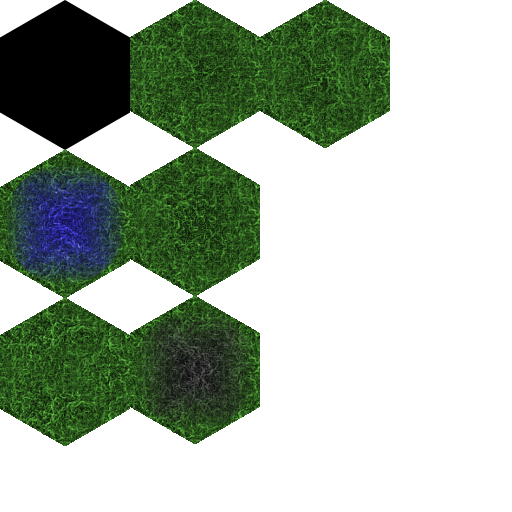
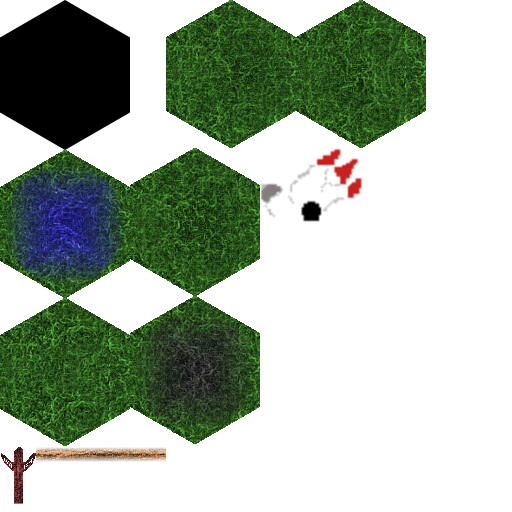
added path finding with a* and assets for the crashed ship and road signs

Changed region(s): [[0.25, 0.0, 0.8438, 0.4375], [0.0, 0.875, 0.3438, 1.0], [0.5, 0.3438, 0.5938, 0.4062]]

diff --git a/lib/src/client/systems/rendering.dart b/lib/src/client/systems/rendering.dart
@@ -14,8 +14,9 @@ class SlimeRenderingSystem extends EntityProcessingSystem {
 
     ctx
       ..save()
-      ..translate(convertX(p.x, p.y) - gsm.cameraX, convertY(p.y) - gsm.cameraY)
+      ..translate(-gsm.cameraX, -gsm.cameraY)
       ..scale(gsm.zoom, gsm.zoom)
+      ..translate(convertX(p.x, p.y), convertY(p.y))
       ..fillStyle = 'blue'
       ..beginPath()
       ..moveTo(0, 0)
@@ -35,8 +36,10 @@ class RoadRenderingSystem extends EntityProcessingSystem {
   Mapper<Road> rm;
 
   CanvasRenderingContext2D ctx;
+  SpriteSheet sheet;
 
-  RoadRenderingSystem(this.ctx) : super(Aspect.getAspectForAllOf([Road]));
+  RoadRenderingSystem(this.ctx, this.sheet)
+      : super(Aspect.getAspectForAllOf([Road]));
 
   @override
   void processEntity(Entity entity) {
@@ -45,18 +48,23 @@ class RoadRenderingSystem extends EntityProcessingSystem {
     final endX = convertX(r.endX, r.endY);
     final startY = convertY(r.startY);
     final endY = convertY(r.endY);
-
+    final road = sheet.sprites['road'];
     ctx
       ..save()
-      ..lineWidth = 3
       ..translate(-gsm.cameraX, -gsm.cameraY)
       ..scale(gsm.zoom, gsm.zoom)
-      ..strokeStyle = 'brown'
-      ..beginPath()
-      ..moveTo(startX, startY)
-      ..lineTo(endX, endY)
-      ..closePath()
-      ..stroke()
+      ..translate(startX, startY)
+      ..rotate(atan2(endY - startY, endX - startX))
+      ..drawImageScaledFromSource(
+          sheet.image,
+          road.src.left,
+          road.src.top,
+          road.src.width,
+          road.src.height,
+          0,
+          -10,
+          road.dst.width,
+          road.dst.height)
       ..restore();
   }
 }
@@ -77,15 +85,15 @@ class MapRenderingSystem extends VoidEntitySystem {
         width: (100 * pixelPerWidth).ceil(),
         height: (100 * pixelPerHeight).ceil());
     bufferCtx = buffer.context2D;
-    final map = mapManager.map;
+    final map = mapManager.map.map;
     for (int y = 0; y < map.length; y++) {
       for (int x = 0; x < map[y].length; x++) {
         Sprite sprite;
-        switch (map[y][x]) {
-          case Tile.carbon:
+        switch (map[y][x].type) {
+          case TileType.carbon:
             sprite = sheet.sprites['carbon'];
             break;
-          case Tile.water:
+          case TileType.water:
             sprite = sheet.sprites['water'];
             break;
           default:
@@ -109,7 +117,75 @@ class MapRenderingSystem extends VoidEntitySystem {
 
   @override
   void processSystem() {
-    ctx.drawImageScaledFromSource(buffer, gsm.cameraX, gsm.cameraY,
-        800 / gsm.zoom, 600 / gsm.zoom, 0, 0, 800, 600);
+    ctx.drawImageScaledFromSource(buffer, gsm.cameraX / gsm.zoom,
+        gsm.cameraY / gsm.zoom, 800 / gsm.zoom, 600 / gsm.zoom, 0, 0, 800, 600);
+  }
+}
+
+class DebugCoordRenderingSystem extends VoidEntitySystem {
+  CanvasRenderingContext2D ctx;
+  MapManager mapManager;
+  GameStateManager gsm;
+  CanvasElement buffer;
+  CanvasRenderingContext2D bufferCtx;
+
+  DebugCoordRenderingSystem(this.ctx);
+
+  @override
+  void initialize() {
+    buffer = new CanvasElement(
+        width: (100 * pixelPerWidth).ceil(),
+        height: (100 * pixelPerHeight).ceil());
+    bufferCtx = buffer.context2D;
+    final map = mapManager.map.map;
+    for (int y = 0; y < map.length; y++) {
+      for (int x = 0; x < map[y].length; x++) {
+        var realX = convertX(x, y);
+        var realY = convertY(y);
+        bufferCtx.fillStyle = 'white';
+        bufferCtx.fillText('$x:$y', realX, realY);
+      }
+    }
+  }
+
+  @override
+  void processSystem() {
+    ctx.drawImageScaledFromSource(buffer, gsm.cameraX / gsm.zoom,
+        gsm.cameraY / gsm.zoom, 800 / gsm.zoom, 600 / gsm.zoom, 0, 0, 800, 600);
+  }
+}
+
+class BuildingRenderingSystem extends EntityProcessingSystem {
+  Mapper<Position> pm;
+  Mapper<Building> bm;
+  GameStateManager gsm;
+
+  CanvasRenderingContext2D ctx;
+  SpriteSheet sheet;
+  BuildingRenderingSystem(this.ctx, this.sheet)
+      : super(Aspect.getAspectForAllOf([Position, Building]));
+
+  @override
+  void processEntity(Entity entity) {
+    final p = pm[entity];
+    final b = bm[entity];
+    final sprite = sheet.sprites[b.id];
+
+    ctx
+      ..save()
+      ..translate(-gsm.cameraX, -gsm.cameraY)
+      ..scale(gsm.zoom, gsm.zoom)
+      ..translate(convertX(p.x, p.y), convertY(p.y))
+      ..drawImageScaledFromSource(
+          sheet.image,
+          sprite.src.left,
+          sprite.src.top,
+          sprite.src.width,
+          sprite.src.height,
+          sprite.dst.left,
+          sprite.dst.top,
+          sprite.dst.width,
+          sprite.dst.height)
+      ..restore();
   }
 }

diff --git a/lib/src/shared/map_manager.dart b/lib/src/shared/map_manager.dart
@@ -1,24 +1,80 @@
 part of shared;
 
-
 class MapManager extends Manager {
-
-  final List<List<Tile>> map = new List.generate(maxY, (_) => new List.generate(maxX, _generateTile));
-
-
-  static Tile _generateTile(_) {
-    final value = random.nextDouble();
-    if (value < 0.05) {
-      return Tile.water;
-    } else if (value < 0.20) {
-      return Tile.carbon;
-    }
-    return Tile.empty;
+  TerrainMap map;
+  AStar<TerrainTile> pathfinder;
+  MapManager() : map = new TerrainMap() {
+    pathfinder = new AStar<TerrainTile>(map);
   }
+
+  TerrainTile getTile(int x, int y) => map.map[y][x];
 }
 
-enum Tile {
-  empty,
-  water,
-  carbon
+enum TileType { empty, water, carbon }
+
+class TerrainTile extends Object with Node {
+  int x, y;
+  TileType type;
+  TerrainTile(this.x, this.y, this.type);
+
+  @override
+  String toString() => '$x:$y - $type';
+}
+
+class TerrainMap implements Graph<TerrainTile> {
+  final List<List<TerrainTile>> map = new List.generate(
+      maxY, (y) => new List.generate(maxX, (x) => _generateTile(x, y)));
+
+  Iterable<TerrainTile> get allNodes => map.expand((rows) => rows).toList();
+  num getDistance(TerrainTile a, TerrainTile b) => 1;
+  num getHeuristicDistance(TerrainTile a, TerrainTile b) => (a.y - b.y).abs() + (a.x - b.x).abs();
+  Iterable<TerrainTile> getNeighboursOf(TerrainTile node) {
+    List<TerrainTile> result = [];
+    final x = node.x;
+    final y = node.y;
+    if (x - 1 >= 0) {
+      result.add(map[y][x - 1]);
+    }
+    if (x + 1 < maxX) {
+      result.add(map[y][x + 1]);
+    }
+    if (y % 2 == 0) {
+      if (y > 0) {
+        result.add(map[y - 1][x]);
+        if (x + 1 < maxX) {
+          result.add(map[y - 1][x + 1]);
+        }
+      }
+      if (y + 1 < maxY) {
+        result.add(map[y + 1][x]);
+        if (x + 1 < maxX) {
+          result.add(map[y + 1][x + 1]);
+        }
+      }
+    } else {
+      if (y > 0) {
+        result.add(map[y - 1][x]);
+        if (x > 0) {
+          result.add(map[y - 1][x - 1]);
+        }
+      }
+      if (y + 1 < maxY) {
+        result.add(map[y + 1][x]);
+        if (x > 0) {
+          result.add(map[y + 1][x - 1]);
+        }
+      }
+    }
+    return result;
+  }
+
+  static TerrainTile _generateTile(int x, int y) {
+    final value = random.nextDouble();
+    if (value < 0.02) {
+      return new TerrainTile(x, y, TileType.water);
+    } else if (value < 0.05) {
+      return new TerrainTile(x, y, TileType.carbon);
+    }
+    return new TerrainTile(x, y, TileType.empty);
+  }
 }

diff --git a/lib/client.dart b/lib/client.dart
@@ -1,5 +1,6 @@
 library client;
 
+import 'dart:collection';
 import 'dart:html';
 export 'dart:html';
 import 'package:ld38/shared.dart';
@@ -15,20 +16,27 @@ class Game extends GameBase {
 
   void createEntities() {
     addEntity([new Position(1, 1), new Slime()]);
+    addEntity([new Position(3, 1), new Slime()]);
     addEntity([new Position(maxX - 2, maxY - 2), new Slime()]);
     addEntity([new Position(maxX - 1, maxY - 2), new Slime()]);
     addEntity([new Position(maxX - 1, maxY - 1), new Slime()]);
 
-    addEntity([new Road(1, 1, 2, 1)]);
+    var mapManager = world.getManager(MapManager) as MapManager;
+    Queue path = mapManager.pathfinder.findPathSync(mapManager.getTile(1,1), mapManager.getTile(2, 2));
+    print(path);
+    path = mapManager.pathfinder.findPathSync(mapManager.getTile(6,2), mapManager.getTile(3, 4));
+    print(path);
 
-    addEntity([new Road(1, 3, 2, 1)]);
-    addEntity([new Road(2, 1, 3, 3)]);
-    addEntity([new Road(1, 3, 3, 3)]);
+    addEntity([new Road(1, 1, 3, 1)]);
+    addEntity([new Road(1, 2, 3, 2)]);
 
-    addEntity([new Road(1, 4, 2, 2)]);
-    addEntity([new Road(2, 2, 3, 4)]);
-    addEntity([new Road(1, 4, 3, 4)]);
+    addEntity([new Road(7, 7, 7, 8)]);
+    addEntity([new Road(7, 8, 8, 8)]);
+    addEntity([new Road(8, 8, 9, 8)]);
 
+    addEntity([new Position(7, 7), new Building('crashed_ship')]);
+    addEntity([new Position(7, 8), new Building('road_sign')]);
+    addEntity([new Position(9, 8), new Building('road_sign')]);
   }
 
   Map<int, List<EntitySystem>> getSystems() {
@@ -37,8 +45,10 @@ class Game extends GameBase {
         new MouseInputSystem(canvas),
         new CanvasCleaningSystem(canvas, fillStyle: 'black'),
         new MapRenderingSystem(ctx, spriteSheet),
-        new RoadRenderingSystem(ctx),
+        new RoadRenderingSystem(ctx, spriteSheet),
+        new BuildingRenderingSystem(ctx, spriteSheet),
         new SlimeRenderingSystem(ctx),
+//        new DebugCoordRenderingSystem(ctx),
         new FpsRenderingSystem(ctx, fillStyle: 'white'),
       ],
       GameBase.physics: [

diff --git a/lib/shared.dart b/lib/shared.dart
@@ -1,5 +1,6 @@
 library shared;
 import 'package:gamedev_helpers/gamedev_helpers_shared.dart';
+import 'package:a_star/a_star.dart';
 part 'src/shared/components.dart';
 //part 'src/shared/systems/name.dart';
 part 'src/shared/game_state_manager.dart';
@@ -9,8 +10,8 @@ part 'src/shared/systems/logic.dart';
 const maxX = 20;
 const maxY = 20;
 const String cameraTag = 'camera';
-const double pixelPerHeight = 100.0;
-const double verticalDistance = 75.0;
+const double pixelPerHeight = 148.0;
+const double verticalDistance = pixelPerHeight * 0.75;
 const double pixelPerWidth = pixelPerHeight * 1.732/2;
 
 num convertX(num x, int y) => y % 2 == 0 ? x * pixelPerWidth : x * pixelPerWidth - 0.5 * pixelPerWidth;

diff --git a/lib/src/shared/components.dart b/lib/src/shared/components.dart
@@ -1,6 +1,5 @@
 part of shared;
 
-
 class Position extends Component {
   num x, y;
   Position(this.x, this.y);
@@ -10,5 +9,11 @@ class Slime extends Component {}
 
 class Road extends Component {
   int startX, startY, endX, endY;
+
   Road(this.startX, this.startY, this.endX, this.endY);
+}
+
+class Building extends Component {
+  String id;
+  Building(this.id);
 }

diff --git a/lib/src/shared/game_state_manager.dart b/lib/src/shared/game_state_manager.dart
@@ -2,5 +2,5 @@ part of shared;
 
 
 class GameStateManager extends Manager {
-  num cameraX = 0, cameraY = 0, zoom = 1;
+  num cameraX = 0, cameraY = 0, zoom = 0.7;
 }
